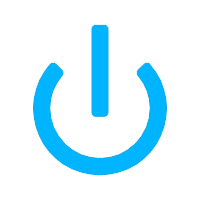
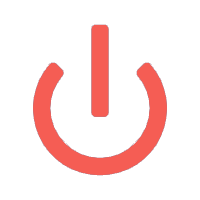
主页布局

Changed region(s): [[0.15, 0.3, 0.84, 0.9], [0.45, 0.12, 0.57, 0.6]]

diff --git a/src/components/Header.vue b/src/components/Header.vue
@@ -19,12 +19,12 @@
 
       <!--右边 start-->
       <div class="right_div">
-        <div style="display: flex;text-align: right;"
+        <div style="cursor:pointer;display: flex;text-align: right;"
              @click="turnOff">
-          <img style="height: 30px;width: 32px"
+          <img style="height: 25px;width: 27px"
                :src="turn_off_icon"
                alt="">
-          <div style="margin-top: 1%;margin-left: 3px;color: #20a0ff">退出</div>
+          <div style="margin-top: 1%;margin-left: 3px;color: #f55d54">退出</div>
         </div>
 
       </div>

diff --git a/src/components/SideBar.vue b/src/components/SideBar.vue
@@ -124,10 +124,12 @@
     min-height: 40px;
     padding-top: 6px;
     text-align: start;
+    cursor: pointer;
   }
 
   .active_menu {
     background: #f55d54;
     color: #ffffff;
+
   }
 </style>
